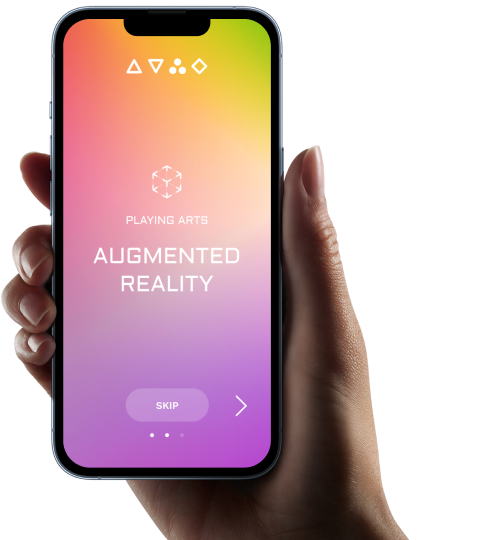
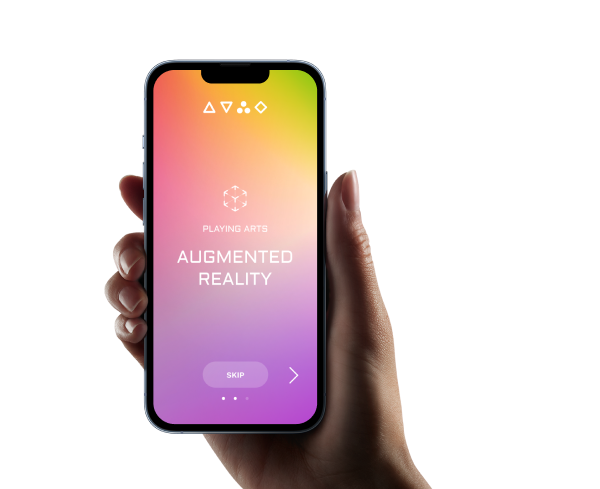
fix: updated augmented reality block

diff --git a/components/AugmentedReality/index.tsx b/components/AugmentedReality/index.tsx
@@ -14,9 +14,9 @@ const AugmentedReality: FC<HTMLAttributes<HTMLElement>> = (props) => (
   <StatBlock
     {...props}
     css={(theme) => ({
-      background: `url(${Hand.src}) bottom right no-repeat`,
-      backgroundColor: theme.colors.dark_gray,
-      color: theme.colors.text_title_light,
+      background: `url(${Hand.src}) 100% 100% no-repeat`,
+      backgroundColor: theme.colors.page_bg_white,
+      color: theme.colors.text_title_dark,
       padding: 0,
       paddingTop: theme.spacing(10),
       paddingBottom: theme.spacing(10),
@@ -28,20 +28,10 @@ const AugmentedReality: FC<HTMLAttributes<HTMLElement>> = (props) => (
           Augmented Reality
         </Text>
         <Text variant="body2">
-          Hover the card to see animation. Click to read the story behind the
-          artwork. Playing Arts is a collective art project for creative people
-          who are into Art, Playing Cards, NFTs and sometimes magic.
+          Playing Arts is a collective art project for creative people who are
+          into Art, Playing Cards, NFTs and sometimes magic.
         </Text>
         <Line spacing={3} />
-        <Text
-          variant="h6"
-          css={{
-            opacity: 0.5,
-            margin: 0,
-          }}
-        >
-          Download the app
-        </Text>
         <div
           css={(theme) => ({ marginTop: theme.spacing(2), display: "flex" })}
         >
